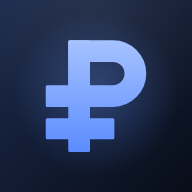
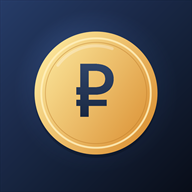
Обновить иконку приложения для iPhone

diff --git a/sw.js b/sw.js
@@ -1,5 +1,5 @@
 // Opens instantly from the saved copy, then quietly fetches the fresh version for next launch.
-const CACHE = 'moi-rashody-v91';
+const CACHE = 'moi-rashody-v92';
 // the fonts are the app's own files: saved with the page at install, so offline every one of them is at hand
 const FONTS = ['GolosText-cyrillic-q5uCsoe9Lv', 'GolosText-latin-q5uCsoe9Lv', 'IBMPlexMono-cyrillic--F63fjptAg', 'IBMPlexMono-latin--F63fjptAg', 'IBMPlexMono-cyrillic--F6qfjptAg', 'IBMPlexMono-latin--F6qfjptAg', 'Unbounded-cyrillic-Yq6W-LOTXC', 'Unbounded-latin-Yq6W-LOTXC',
   // ₽ for each face (it is in neither the Latin nor the Cyrillic file)
